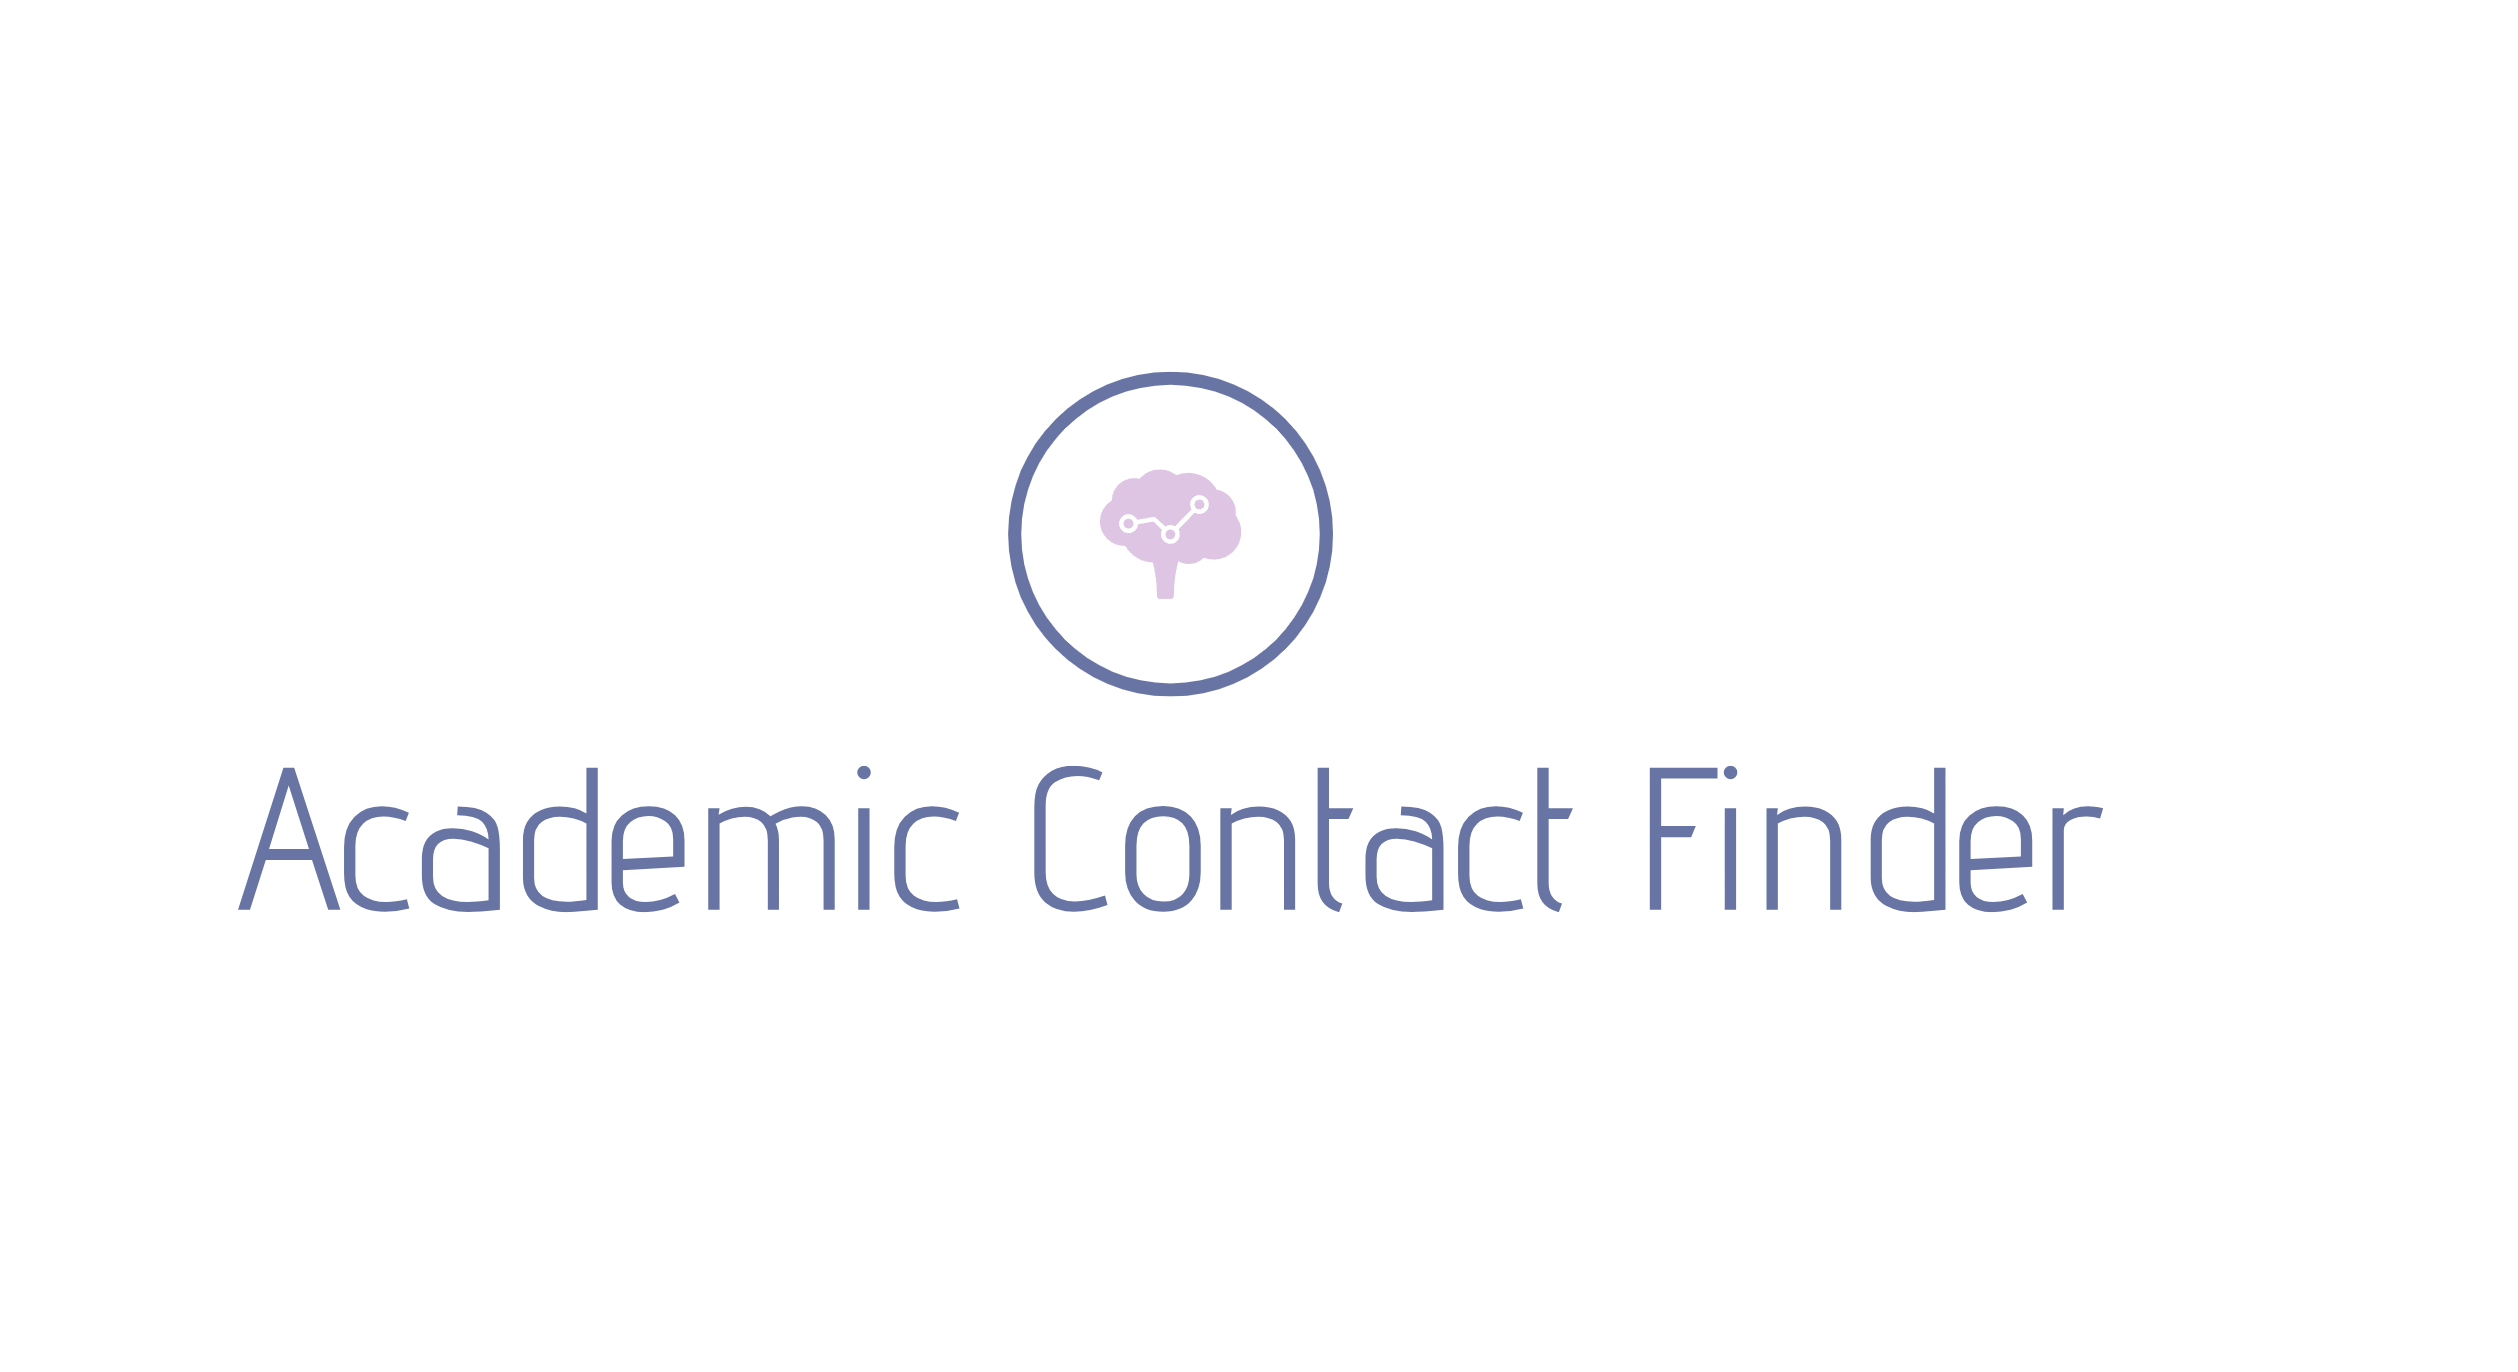
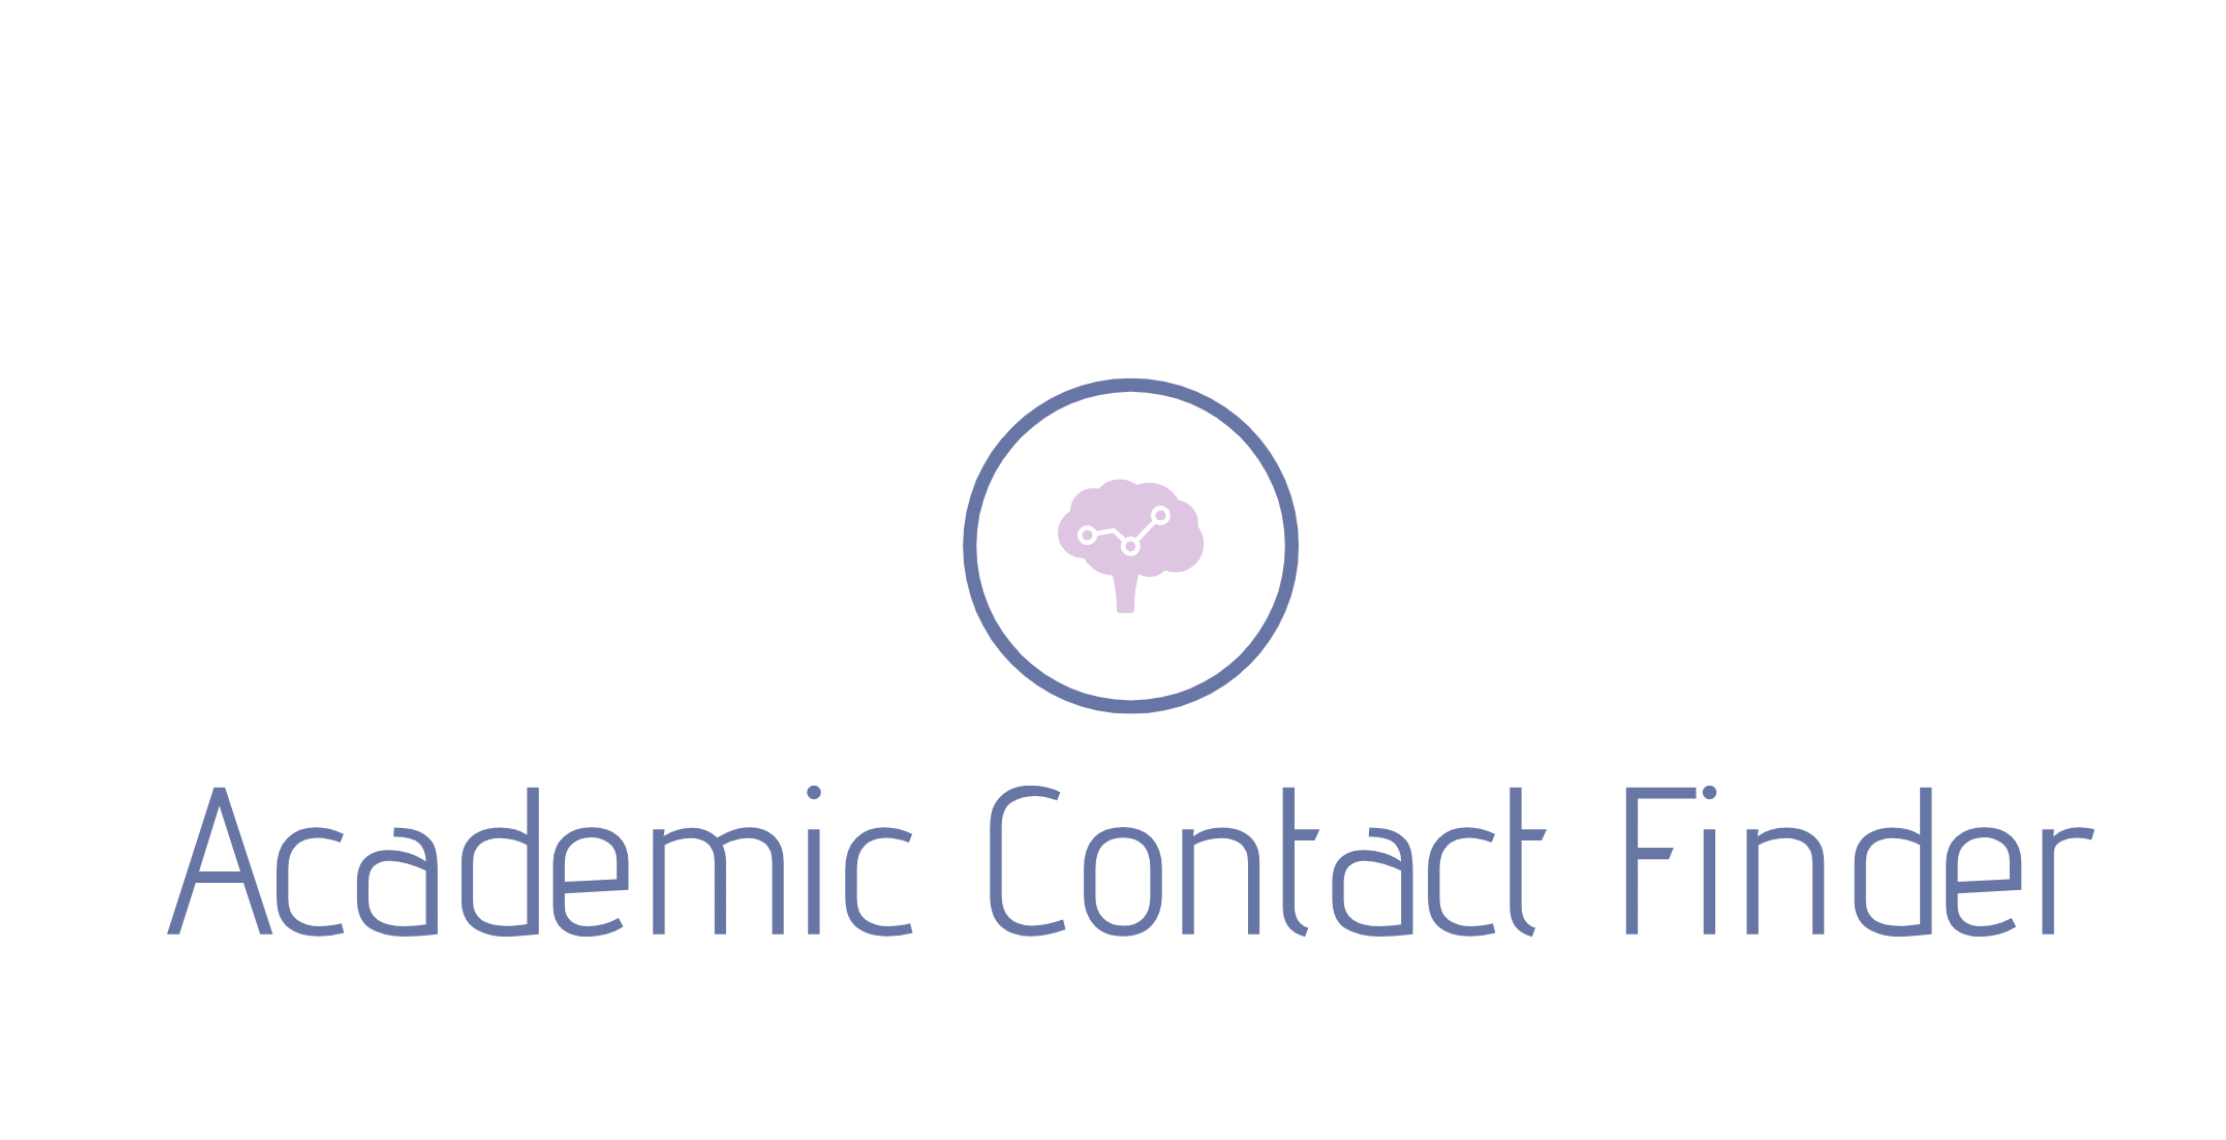
Final Additions to User guide
- Final descriptions added
- Last few screenshots added
- Logo adjusted

Changed region(s): [[0.403, 0.2763, 0.9609, 0.8289], [0.062, 0.5526, 0.403, 0.8289]]

diff --git a/documentation/USER_GUIDE.md b/documentation/USER_GUIDE.md
@@ -1,6 +1,6 @@
 
 
-<img src="../images/Big_Header.png" style="margin: auto; text-align: centre;">
+<img src="../images/Big_Header.png" style="margin: auto; text-align: centre; width: 100%;">
 
 
 
@@ -182,14 +182,18 @@ If you have already been provided with a Scopus API key you can skip the **Regis
      <img src="../images/ChangeDefaultEmail.png" style="margin: auto;">
    
 2. **Email All Results**:
-   - By pressing "Email All" at the bottom of the screen, you will then be allowed to select "Outlook".
+   - By pressing "Email All" at the bottom of the screen, If you're using a **Mac** the mail app will open with the email laid out in a similar format to the display on the application. If you're using **Windows**, a few options will appear, you must select **Outlook** before you can send the email. 
 
-   - Once selected, you will be able to send all results that the app has found to your email address
+   - Once selected, you will be able to send all results that the app has found to your email address.
 
      <img src="../images/EmailAllButton.png" style="margin: auto;">
 
 3. **Send Individual Results**:
-   - If you only wish to email yourself one of the results, simply press the "Send" button inside the result you wish to choose
+   - If you only wish to email yourself one of the results, simply press the "Send" button inside the result you wish to choose.
+   
+   - Similarly to the email all functionality, if you're using **Mac**, the mail app will open and allow you to send the result that way. If using **Windows**, you must select **Outlook** before being able to send the results to yourself.
+   
+     <img src="../images/EmailResult.png" style="margin: auto;">
 
 ## 7. FAQs
 
